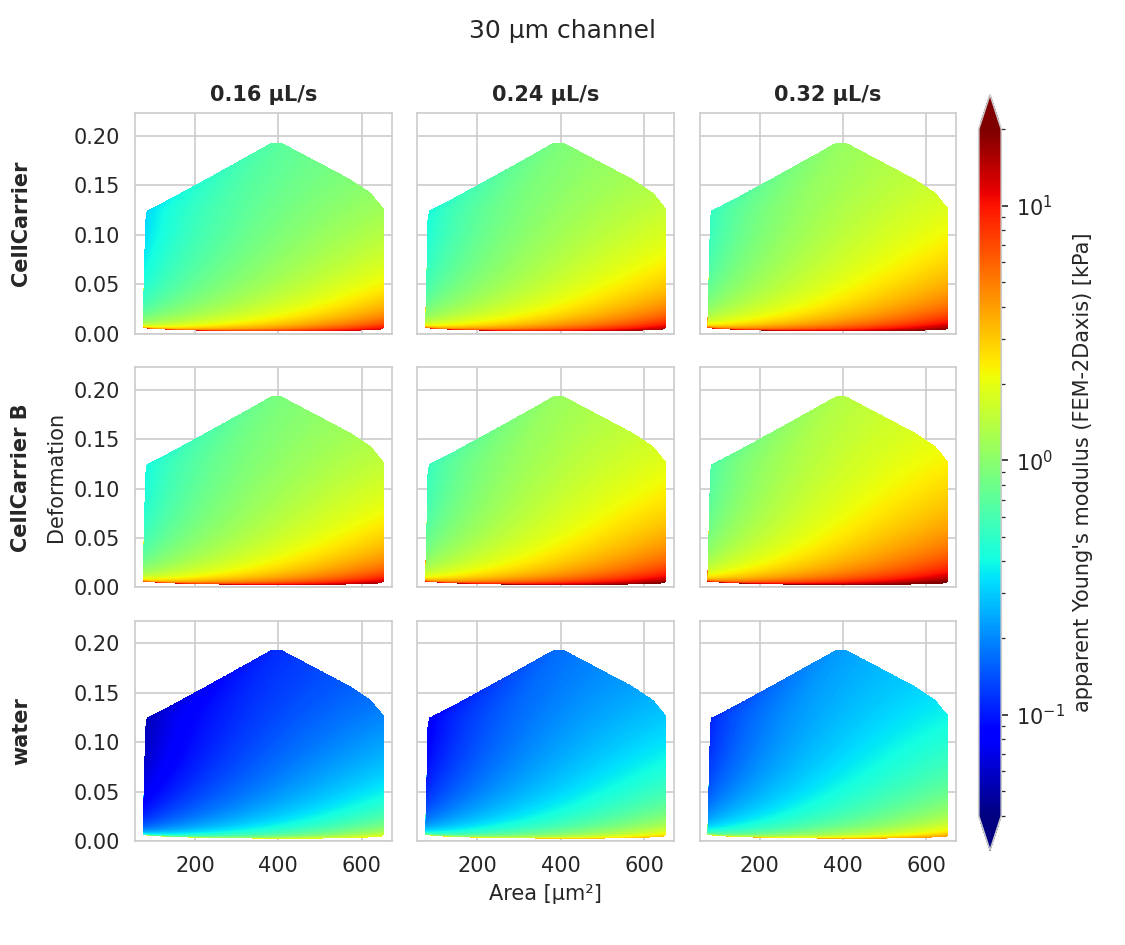
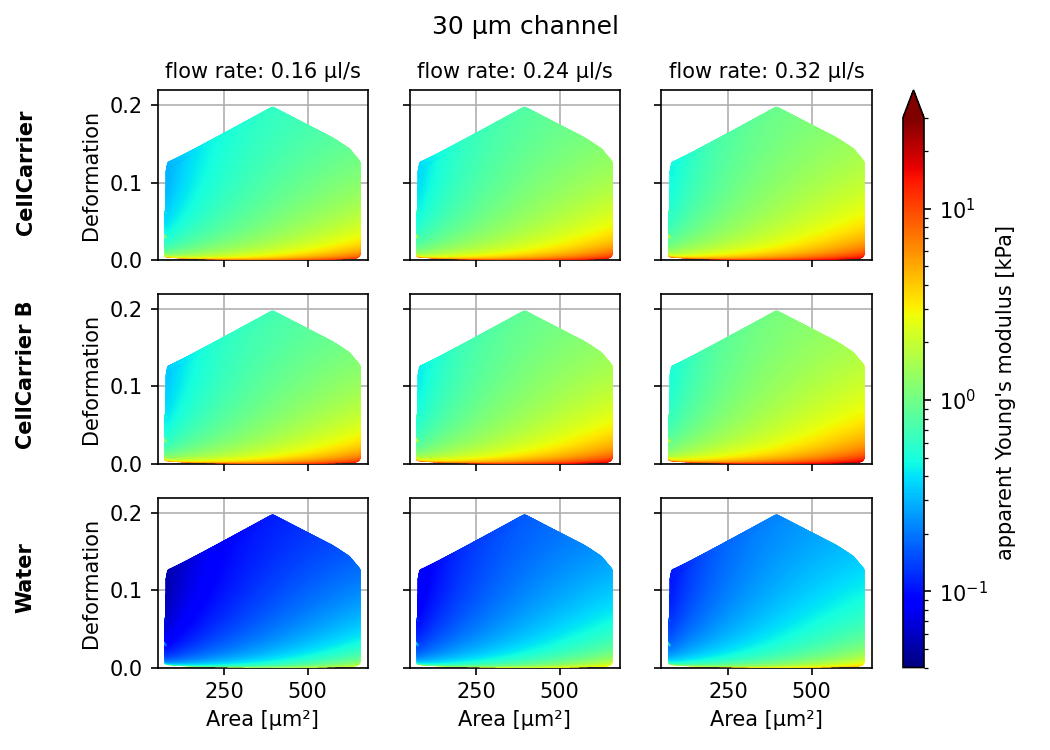
docs: update docs with more info on new viscosity model (close #136)

diff --git a/shapeout2/gui/analysis/ana_slot.py b/shapeout2/gui/analysis/ana_slot.py
@@ -350,12 +350,16 @@ class SlotPanel(QtWidgets.QWidget):
         tselec = self.comboBox_temp.currentData()
         medium_key = ALIAS_MEDIA.get(medium, medium)
         visc_model = self.comboBox_visc_model.currentText()
+        # Only show model selection if we are dealing with MC-PBS
+        self.comboBox_visc_model.setVisible(medium_key.count("MC-PBS"))
+        self.doubleSpinBox_visc.setStyleSheet("")
         if medium in KNOWN_MEDIA:  # medium registered with dclab
+            self.label_temp.setVisible(True)
+            self.comboBox_temp.setVisible(True)
+            self.doubleSpinBox_temp.setVisible(True)
             self.comboBox_temp.setEnabled(True)
             self.doubleSpinBox_visc.setEnabled(True)
             self.doubleSpinBox_visc.setReadOnly(True)
-            # Only show model selection if we are dealing with MC-PBS
-            self.comboBox_visc_model.setVisible(medium_key.count("MC-PBS"))
             if tselec == "manual":
                 temperature = self.doubleSpinBox_temp.value()
                 self.doubleSpinBox_temp.setEnabled(True)
@@ -370,6 +374,7 @@ class SlotPanel(QtWidgets.QWidget):
             elif tselec == "feature":
                 temperature = np.nan
                 self.doubleSpinBox_temp.setEnabled(False)
+                self.doubleSpinBox_temp.setVisible(False)
                 self.doubleSpinBox_temp.setValue(temperature)
             else:
                 assert tselec is None, "We should still be in init"
@@ -396,29 +401,32 @@ class SlotPanel(QtWidgets.QWidget):
                             break
                     else:
                         vstyle = "border-width: 2px"
+                self.doubleSpinBox_visc.setVisible(True)
                 self.doubleSpinBox_visc.setEnabled(True)
                 self.doubleSpinBox_visc.setReadOnly(True)
                 self.doubleSpinBox_visc.setValue(visc)
                 self.doubleSpinBox_visc.setStyleSheet(vstyle)
             else:
                 self.doubleSpinBox_visc.setEnabled(False)
+                self.doubleSpinBox_visc.setVisible(False)
                 self.doubleSpinBox_visc.setReadOnly(True)
                 self.doubleSpinBox_visc.setValue(np.nan)
-                self.doubleSpinBox_visc.setStyleSheet("border-width: 2px")
         elif medium == "undefined":
-            self.comboBox_temp.setEnabled(False)
+            self.label_temp.setVisible(False)
+            self.comboBox_temp.setVisible(False)
+            self.doubleSpinBox_temp.setVisible(False)
             self.doubleSpinBox_temp.setEnabled(False)
             self.doubleSpinBox_temp.setValue(np.nan)
             self.doubleSpinBox_visc.setValue(np.nan)
             self.doubleSpinBox_visc.setEnabled(False)
-            self.doubleSpinBox_visc.setStyleSheet("border-width: 2px")
         else:  # "other" or user-defined
-            self.comboBox_temp.setEnabled(False)
+            self.label_temp.setVisible(False)
+            self.comboBox_temp.setVisible(False)
+            self.doubleSpinBox_temp.setVisible(False)
             self.doubleSpinBox_temp.setEnabled(False)
             self.doubleSpinBox_temp.setValue(np.nan)
             self.doubleSpinBox_visc.setEnabled(True)
             self.doubleSpinBox_visc.setReadOnly(False)
-            self.doubleSpinBox_visc.setStyleSheet("border-width: 2px")
 
     def set_pipeline(self, pipeline):
         self._pipeline = pipeline

diff --git a/docs/figures/qg_youngs_modulus.py b/docs/figures/qg_youngs_modulus.py
@@ -41,7 +41,7 @@ for st in settings:
     Emax = 30
 
     x = np.linspace(0, st["x max"], 400)
-    y = np.linspace(0, 0.17, 800)
+    y = np.linspace(0, 0.20, 800)
 
     x, y = np.meshgrid(x, y)
 
@@ -49,6 +49,7 @@ for st in settings:
               "deform": y,
               "temperature": temperature,
               "px_um": pixel_size,
+              "visc_model": "buyukurganci-2022",
               }
 
     E_CC_1 = get_emodulus(medium="CellCarrier",
@@ -93,10 +94,10 @@ for st in settings:
     # start with a rectangular Figure
     plt.rcParams['axes.grid'] = True
     fig, ax = plt.subplots(nrows=3, ncols=3, figsize=(7, 5),
-                           sharey=True, sharex=True)
+                           sharey="all", sharex="all")
     fig.suptitle(str(st["channel width"])+" µm channel")
     ax[0, 0].set_xlim(st["x range"])
-    ax[0, 0].set_ylim([0, 0.17])
+    ax[0, 0].set_ylim([0, 0.22])
     ax[2, 0].set_xlabel("Area [µm²]")
     ax[2, 1].set_xlabel("Area [µm²]")
     ax[2, 2].set_xlabel("Area [µm²]")
@@ -110,7 +111,7 @@ for st in settings:
               "marker": "o",
               "linewidth": 0,
               "zorder": 3,
-              "cmap": "nipy_spectral",
+              "cmap": "jet",
               }
     pem = ax[0, 0].scatter(c=E_CC_1, **scatkw)
     ax[0, 1].scatter(c=E_CC_2, **scatkw)
@@ -142,7 +143,7 @@ for st in settings:
     row_ax.spines['left'].set_visible(False)
     textkw = {"rotation": "vertical",
               "fontsize": 10,
-              "fontweight": "demibold",
+              "fontweight": "semibold",
               "va": "center"}
     row_ax.text(0.5, 0.23, "Water", **textkw)
     row_ax.text(0.5, 0.5, "CellCarrier B", **textkw)

diff --git a/docs/scrots/make_scrots_qg_emodulus.py b/docs/scrots/make_scrots_qg_emodulus.py
@@ -35,7 +35,8 @@ mw.reload_pipeline()
 mw.on_modify_slot(mw.pipeline.slot_ids[0])
 mw.widget_ana_view.repaint()
 wsl = mw.widget_ana_view.widget_slot
-wsl.groupBox_emod.setFixedSize(420, wsl.groupBox_emod.sizeHint().height())
+wsl.comboBox_visc_model.setCurrentIndex(0)
+wsl.groupBox_emod.setFixedSize(420, 140)
 
 wsl.comboBox_medium.setCurrentIndex(
     wsl.comboBox_medium.findData("CellCarrier"))
@@ -52,7 +53,7 @@ wsl.groupBox_emod.grab().save("_qg_emodulus_feature.png")
 wsl.comboBox_medium.setCurrentIndex(
     wsl.comboBox_medium.findData("CellCarrier"))
 wsl.comboBox_temp.setCurrentIndex(wsl.comboBox_temp.findData("manual"))
-wsl.doubleSpinBox_temp.setValue(31)
+wsl.doubleSpinBox_temp.setValue(38)
 app.processEvents(QtCore.QEventLoop.AllEvents, 300)
 wsl.groupBox_emod.grab().save("_qg_emodulus_badtemp.png")
 

diff --git a/docs/sec_qg_youngs_modulus.rst b/docs/sec_qg_youngs_modulus.rst
@@ -7,6 +7,9 @@ With Shape-Out, it is possible to translate the measured area and deformation
 to the Young's modulus based on numerical simulation for
 fully elastic spheres according to Mokbel et al. :cite:`Mokbel2017`.
 
+The theoretical background, including the computation of the viscosity for
+the MC-PBS media used in RT-DC, is discussed in more detail in the
+:ref:`dclab docs <dclab:sec_av_emodulus>`.
 
 .. note::
 
@@ -22,7 +25,7 @@ Parameter settings
     :target: _images/qg_emodulus_config.png
     :align: right
 
-    Temperature taken from the meta data.
+    Temperature taken from the metadata.
 
 .. _qg_emodulus_feature:
 .. figure:: scrots/qg_emodulus_feature.png
@@ -39,7 +42,7 @@ correction), and viscosity. For known media, such as CellCarrier, the
 viscosity can be derived from channel width, flow rate, and temperature.
 In some RT-DC setups, the chip temperature is recorded during the measurement.
 For instance, in :numref:`qg_emodulus_config`, the average chip temperature
-of 22.5°C from the [setup] meta data section is used. The value of the
+of 22.5°C from the [setup] metadata section is used. The value of the
 resulting viscosity is shown below.
 If the chip temperature is recorded for each event, then the user may select
 the *From feature* option (:numref:`qg_emodulus_feature`). In this case,
@@ -53,10 +56,10 @@ the Young's modulus is computed from the individual viscosities for each event.
 
     Temperature outside of known range.
 
-If the temperature is not given as a feature or as meta data, then
+If the temperature is not given as a feature or as metadata, then
 you may select the temperature manually. This case is visualized in
 :numref:`qg_emodulus_badtemp`. Here, the temperature is purposely set outside of
-the known range defined in :cite:`Herold2017`, which is highlighted by
+the known range defined in :cite:`Buyukurganci2022`, which is highlighted by
 coloring the viscosity red.
 
 .. _qg_emodulus_other:
@@ -70,7 +73,7 @@ You may also set the viscosity manually by selecting *other* as a medium
 (:numref:`qg_emodulus_other`).
 In this case, the values for temperature are irrelevant. Please only use
 this option if you know what you are doing (e.g. you have considered
-shear-thinning :cite:`Herold2017`).
+shear-thinning and temperature-dependence :cite:`Herold2017, Buyukurganci2022`).
 
 Click *Apply* for any changes to take effect. The Young's modulus is then
 available for the selected dataset.
@@ -91,7 +94,7 @@ for all datasets of the current session. Note that the options
 in this dialog do not necessarily reflect the options available for the
 individual datasets. Only valid options are adopted. For instance,
 you will not be able to change the medium for a dataset if a medium is
-already given in its meta data. To verify the options set, you can always
+already given in its metadata. To verify the options set, you can always
 check the current setting via the *Analysis View* (see above).
 
 
@@ -114,8 +117,9 @@ is checked in the *Filter* configuration tab.
     shown depend on the channel size, the flow rate, the temperature,
     and the viscosity of the medium :cite:`Mietke2015`.
     Here, they are computed for a 20 µm wide channel at 23°C with an
-    effective pixel size of 0.34 µm. The data are corrected for pixelation
-    effects according to :cite:`Herold2017`.
+    effective pixel size of 0.34 µm. The viscosity of the MC-PBS buffers
+    is computed according to :cite:`Buyukurganci2022` and the data are corrected
+    for pixelation effects according to :cite:`Herold2017`.
 
 The invalid regions (white in the figure above) include objects that
 are very small or objects with very low deformation values.
